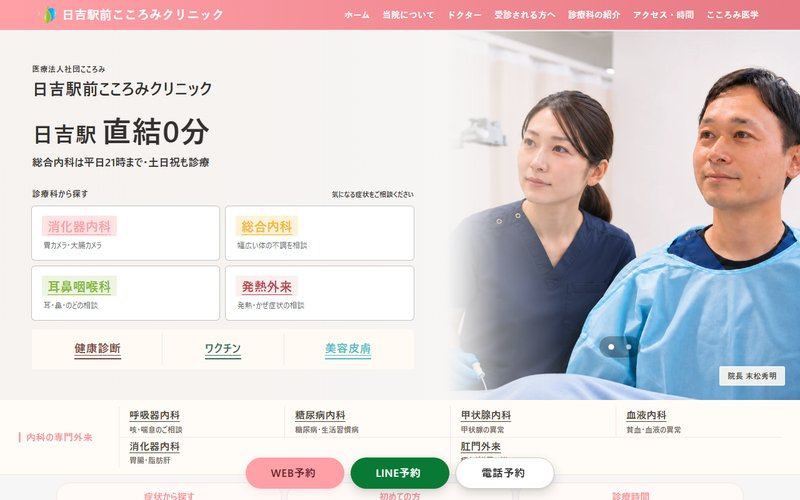
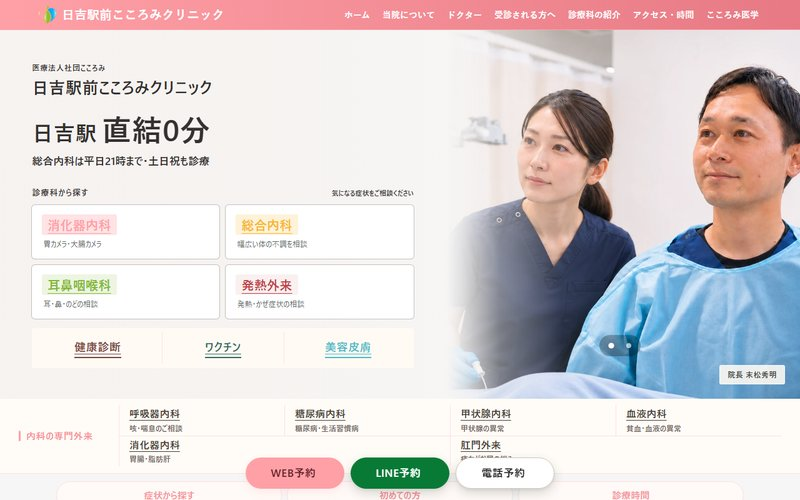
fix: トップのグロナビの下の白い線（2px のすき間）を消す（v0.21.0）
- パソコン幅でヘッダー 48px に対し本文が 50px 下から始まり、2px にページの地の白が見えていた
- 最初の画面を 2px 上に詰めた（全パターン共通）。説明ページとトップの縮小画像5枚を更新。本番サイトは変更なし

diff --git a/fv-patterns/checkups/index.html b/fv-patterns/checkups/index.html
@@ -5,8 +5,8 @@
 <meta name="robots" content="noindex,nofollow">
 <script>(function(){var h=document.documentElement,q=(location.search.match(/[?&]p=([1-5])\b/)||[])[1],s=null;try{s=localStorage.getItem("jFvPat")}catch(e){}var m=q||s||"1";if(!/^[1-5]$/.test(m))m="1";if(q){try{localStorage.setItem("jFvPat",m)}catch(e){}}h.classList.add("fvp","fvr","fv"+m,/^[123]$/.test(m)?"fvL":"fvD")})();</script>
 
-<link rel="stylesheet" href="../assets/sample.css?v=0.20.0">
-<link rel="stylesheet" href="../assets/fvp.css?v=0.20.0">
+<link rel="stylesheet" href="../assets/sample.css?v=0.21.0">
+<link rel="stylesheet" href="../assets/fvp.css?v=0.21.0">
 
 
 
@@ -1674,7 +1674,7 @@ margin-block-end: 24px;
 var e="script#wp-emoji-settings",t=document.querySelector(e);if(!(t instanceof HTMLScriptElement))throw new Error("Element missing: "+e);const r=JSON.parse(t.text),s=(window._wpemojiSettings=r,"wpEmojiSettingsSupports"),o=["flag","emoji"];function i(e){try{var t={supportTests:e,timestamp:(new Date).valueOf()};sessionStorage.setItem(s,JSON.stringify(t))}catch(e){}}function c(e,t,n){e.clearRect(0,0,e.canvas.width,e.canvas.height),e.fillText(t,0,0);t=new Uint32Array(e.getImageData(0,0,e.canvas.width,e.canvas.height).data);e.clearRect(0,0,e.canvas.width,e.canvas.height),e.fillText(n,0,0);const r=new Uint32Array(e.getImageData(0,0,e.canvas.width,e.canvas.height).data);return t.every((e,t)=>e===r[t])}function p(e,t){e.clearRect(0,0,e.canvas.width,e.canvas.height),e.fillText(t,0,0);var n=e.getImageData(16,16,1,1);for(let e=0;e<n.data.length;e++)if(0!==n.data[e])return!1;return!0}function u(e,t,n,r){switch(t){case"flag":return n(e,"\ud83c\udff3\ufe0f\u200d\u26a7\ufe0f","\ud83c\udff3\ufe0f\u200b\u26a7\ufe0f")?!1:!n(e,"\ud83c\udde8\ud83c\uddf6","\ud83c\udde8\u200b\ud83c\uddf6")&&!n(e,"\ud83c\udff4\udb40\udc67\udb40\udc62\udb40\udc65\udb40\udc6e\udb40\udc67\udb40\udc7f","\ud83c\udff4\u200b\udb40\udc67\u200b\udb40\udc62\u200b\udb40\udc65\u200b\udb40\udc6e\u200b\udb40\udc67\u200b\udb40\udc7f");case"emoji":return!r(e,"\ud83e\u1fac8")}return!1}function f(e,t,n,r){let a;const s=(a="undefined"!=typeof WorkerGlobalScope&&self instanceof WorkerGlobalScope?new OffscreenCanvas(300,150):document.createElement("canvas")).getContext("2d",{willReadFrequently:!0}),o=(s.textBaseline="top",s.font="600 32px Arial",{});return e.forEach(e=>{o[e]=t(s,e,n,r)}),o}function a(e){var t=document.createElement("script");t.src=e,t.defer=!0,document.head.appendChild(t)}r.supports={everything:!0,everythingExceptFlag:!0},new Promise(t=>{let n=function(){try{var e=JSON.parse(sessionStorage.getItem(s));if("object"==typeof e&&"number"==typeof e.timestamp&&(new Date).valueOf()<e.timestamp+604800&&"object"==typeof e.supportTests)return e.supportTests}catch(e){}return null}();if(!n){if("undefined"!=typeof Worker&&"undefined"!=typeof OffscreenCanvas&&"undefined"!=typeof URL&&URL.createObjectURL&&"undefined"!=typeof Blob)try{var e="postMessage("+f.toString()+"("+[JSON.stringify(o),u.toString(),c.toString(),p.toString()].join(",")+"));",r=new Blob([e],{type:"text/javascript"});const a=new Worker(URL.createObjectURL(r),{name:"wpTestEmojiSupports"});return void(a.onmessage=e=>{i(n=e.data),a.terminate(),t(n)})}catch(e){}i(n=f(o,u,c,p))}t(n)}).then(e=>{for(const n in e)r.supports[n]=e[n],r.supports.everything=r.supports.everything&&r.supports[n],"flag"!==n&&(r.supports.everythingExceptFlag=r.supports.everythingExceptFlag&&r.supports[n]);var t;r.supports.everythingExceptFlag=r.supports.everythingExceptFlag&&!r.supports.flag,r.supports.everything||((t=r.source||{}).concatemoji?a(t.concatemoji):t.wpemoji&&t.twemoji&&(a(t.twemoji),a(t.wpemoji)))});
 //# sourceURL=https://hiyoshi-cocoromi-cl.jp/wp-includes/js/wp-emoji-loader.min.js
 </script>
-  <script src="../assets/fvp.js?v=0.20.0" data-page="checkups"></script>
+  <script src="../assets/fvp.js?v=0.21.0" data-page="checkups"></script>
 </body>
 </html>
 

diff --git a/fv-patterns/general/index.html b/fv-patterns/general/index.html
@@ -5,8 +5,8 @@
 <meta name="robots" content="noindex,nofollow">
 <script>(function(){var h=document.documentElement,q=(location.search.match(/[?&]p=([1-5])\b/)||[])[1],s=null;try{s=localStorage.getItem("jFvPat")}catch(e){}var m=q||s||"1";if(!/^[1-5]$/.test(m))m="1";if(q){try{localStorage.setItem("jFvPat",m)}catch(e){}}h.classList.add("fvp","fvr","fv"+m,/^[123]$/.test(m)?"fvL":"fvD")})();</script>
 
-<link rel="stylesheet" href="../assets/sample.css?v=0.20.0">
-<link rel="stylesheet" href="../assets/fvp.css?v=0.20.0">
+<link rel="stylesheet" href="../assets/sample.css?v=0.21.0">
+<link rel="stylesheet" href="../assets/fvp.css?v=0.21.0">
 
 
 
@@ -1950,7 +1950,7 @@ margin-block-end: 24px;
 var e="script#wp-emoji-settings",t=document.querySelector(e);if(!(t instanceof HTMLScriptElement))throw new Error("Element missing: "+e);const r=JSON.parse(t.text),s=(window._wpemojiSettings=r,"wpEmojiSettingsSupports"),o=["flag","emoji"];function i(e){try{var t={supportTests:e,timestamp:(new Date).valueOf()};sessionStorage.setItem(s,JSON.stringify(t))}catch(e){}}function c(e,t,n){e.clearRect(0,0,e.canvas.width,e.canvas.height),e.fillText(t,0,0);t=new Uint32Array(e.getImageData(0,0,e.canvas.width,e.canvas.height).data);e.clearRect(0,0,e.canvas.width,e.canvas.height),e.fillText(n,0,0);const r=new Uint32Array(e.getImageData(0,0,e.canvas.width,e.canvas.height).data);return t.every((e,t)=>e===r[t])}function p(e,t){e.clearRect(0,0,e.canvas.width,e.canvas.height),e.fillText(t,0,0);var n=e.getImageData(16,16,1,1);for(let e=0;e<n.data.length;e++)if(0!==n.data[e])return!1;return!0}function u(e,t,n,r){switch(t){case"flag":return n(e,"\ud83c\udff3\ufe0f\u200d\u26a7\ufe0f","\ud83c\udff3\ufe0f\u200b\u26a7\ufe0f")?!1:!n(e,"\ud83c\udde8\ud83c\uddf6","\ud83c\udde8\u200b\ud83c\uddf6")&&!n(e,"\ud83c\udff4\udb40\udc67\udb40\udc62\udb40\udc65\udb40\udc6e\udb40\udc67\udb40\udc7f","\ud83c\udff4\u200b\udb40\udc67\u200b\udb40\udc62\u200b\udb40\udc65\u200b\udb40\udc6e\u200b\udb40\udc67\u200b\udb40\udc7f");case"emoji":return!r(e,"\ud83e\u1fac8")}return!1}function f(e,t,n,r){let a;const s=(a="undefined"!=typeof WorkerGlobalScope&&self instanceof WorkerGlobalScope?new OffscreenCanvas(300,150):document.createElement("canvas")).getContext("2d",{willReadFrequently:!0}),o=(s.textBaseline="top",s.font="600 32px Arial",{});return e.forEach(e=>{o[e]=t(s,e,n,r)}),o}function a(e){var t=document.createElement("script");t.src=e,t.defer=!0,document.head.appendChild(t)}r.supports={everything:!0,everythingExceptFlag:!0},new Promise(t=>{let n=function(){try{var e=JSON.parse(sessionStorage.getItem(s));if("object"==typeof e&&"number"==typeof e.timestamp&&(new Date).valueOf()<e.timestamp+604800&&"object"==typeof e.supportTests)return e.supportTests}catch(e){}return null}();if(!n){if("undefined"!=typeof Worker&&"undefined"!=typeof OffscreenCanvas&&"undefined"!=typeof URL&&URL.createObjectURL&&"undefined"!=typeof Blob)try{var e="postMessage("+f.toString()+"("+[JSON.stringify(o),u.toString(),c.toString(),p.toString()].join(",")+"));",r=new Blob([e],{type:"text/javascript"});const a=new Worker(URL.createObjectURL(r),{name:"wpTestEmojiSupports"});return void(a.onmessage=e=>{i(n=e.data),a.terminate(),t(n)})}catch(e){}i(n=f(o,u,c,p))}t(n)}).then(e=>{for(const n in e)r.supports[n]=e[n],r.supports.everything=r.supports.everything&&r.supports[n],"flag"!==n&&(r.supports.everythingExceptFlag=r.supports.everythingExceptFlag&&r.supports[n]);var t;r.supports.everythingExceptFlag=r.supports.everythingExceptFlag&&!r.supports.flag,r.supports.everything||((t=r.source||{}).concatemoji?a(t.concatemoji):t.wpemoji&&t.twemoji&&(a(t.twemoji),a(t.wpemoji)))});
 //# sourceURL=https://hiyoshi-cocoromi-cl.jp/wp-includes/js/wp-emoji-loader.min.js
 </script>
-  <script src="../assets/fvp.js?v=0.20.0" data-page="general"></script>
+  <script src="../assets/fvp.js?v=0.21.0" data-page="general"></script>
 </body>
 </html>
 

diff --git a/fv-patterns/gastro/index.html b/fv-patterns/gastro/index.html
@@ -5,8 +5,8 @@
 <meta name="robots" content="noindex,nofollow">
 <script>(function(){var h=document.documentElement,q=(location.search.match(/[?&]p=([1-5])\b/)||[])[1],s=null;try{s=localStorage.getItem("jFvPat")}catch(e){}var m=q||s||"1";if(!/^[1-5]$/.test(m))m="1";if(q){try{localStorage.setItem("jFvPat",m)}catch(e){}}h.classList.add("fvp","fvr","fv"+m,/^[123]$/.test(m)?"fvL":"fvD")})();</script>
 
-<link rel="stylesheet" href="../assets/sample.css?v=0.20.0">
-<link rel="stylesheet" href="../assets/fvp.css?v=0.20.0">
+<link rel="stylesheet" href="../assets/sample.css?v=0.21.0">
+<link rel="stylesheet" href="../assets/fvp.css?v=0.21.0">
 
 
 
@@ -2147,7 +2147,7 @@ margin-block-end: 24px;
 var e="script#wp-emoji-settings",t=document.querySelector(e);if(!(t instanceof HTMLScriptElement))throw new Error("Element missing: "+e);const r=JSON.parse(t.text),s=(window._wpemojiSettings=r,"wpEmojiSettingsSupports"),o=["flag","emoji"];function i(e){try{var t={supportTests:e,timestamp:(new Date).valueOf()};sessionStorage.setItem(s,JSON.stringify(t))}catch(e){}}function c(e,t,n){e.clearRect(0,0,e.canvas.width,e.canvas.height),e.fillText(t,0,0);t=new Uint32Array(e.getImageData(0,0,e.canvas.width,e.canvas.height).data);e.clearRect(0,0,e.canvas.width,e.canvas.height),e.fillText(n,0,0);const r=new Uint32Array(e.getImageData(0,0,e.canvas.width,e.canvas.height).data);return t.every((e,t)=>e===r[t])}function p(e,t){e.clearRect(0,0,e.canvas.width,e.canvas.height),e.fillText(t,0,0);var n=e.getImageData(16,16,1,1);for(let e=0;e<n.data.length;e++)if(0!==n.data[e])return!1;return!0}function u(e,t,n,r){switch(t){case"flag":return n(e,"\ud83c\udff3\ufe0f\u200d\u26a7\ufe0f","\ud83c\udff3\ufe0f\u200b\u26a7\ufe0f")?!1:!n(e,"\ud83c\udde8\ud83c\uddf6","\ud83c\udde8\u200b\ud83c\uddf6")&&!n(e,"\ud83c\udff4\udb40\udc67\udb40\udc62\udb40\udc65\udb40\udc6e\udb40\udc67\udb40\udc7f","\ud83c\udff4\u200b\udb40\udc67\u200b\udb40\udc62\u200b\udb40\udc65\u200b\udb40\udc6e\u200b\udb40\udc67\u200b\udb40\udc7f");case"emoji":return!r(e,"\ud83e\u1fac8")}return!1}function f(e,t,n,r){let a;const s=(a="undefined"!=typeof WorkerGlobalScope&&self instanceof WorkerGlobalScope?new OffscreenCanvas(300,150):document.createElement("canvas")).getContext("2d",{willReadFrequently:!0}),o=(s.textBaseline="top",s.font="600 32px Arial",{});return e.forEach(e=>{o[e]=t(s,e,n,r)}),o}function a(e){var t=document.createElement("script");t.src=e,t.defer=!0,document.head.appendChild(t)}r.supports={everything:!0,everythingExceptFlag:!0},new Promise(t=>{let n=function(){try{var e=JSON.parse(sessionStorage.getItem(s));if("object"==typeof e&&"number"==typeof e.timestamp&&(new Date).valueOf()<e.timestamp+604800&&"object"==typeof e.supportTests)return e.supportTests}catch(e){}return null}();if(!n){if("undefined"!=typeof Worker&&"undefined"!=typeof OffscreenCanvas&&"undefined"!=typeof URL&&URL.createObjectURL&&"undefined"!=typeof Blob)try{var e="postMessage("+f.toString()+"("+[JSON.stringify(o),u.toString(),c.toString(),p.toString()].join(",")+"));",r=new Blob([e],{type:"text/javascript"});const a=new Worker(URL.createObjectURL(r),{name:"wpTestEmojiSupports"});return void(a.onmessage=e=>{i(n=e.data),a.terminate(),t(n)})}catch(e){}i(n=f(o,u,c,p))}t(n)}).then(e=>{for(const n in e)r.supports[n]=e[n],r.supports.everything=r.supports.everything&&r.supports[n],"flag"!==n&&(r.supports.everythingExceptFlag=r.supports.everythingExceptFlag&&r.supports[n]);var t;r.supports.everythingExceptFlag=r.supports.everythingExceptFlag&&!r.supports.flag,r.supports.everything||((t=r.source||{}).concatemoji?a(t.concatemoji):t.wpemoji&&t.twemoji&&(a(t.twemoji),a(t.wpemoji)))});
 //# sourceURL=https://hiyoshi-cocoromi-cl.jp/wp-includes/js/wp-emoji-loader.min.js
 </script>
-  <script src="../assets/fvp.js?v=0.20.0" data-page="gastro"></script>
+  <script src="../assets/fvp.js?v=0.21.0" data-page="gastro"></script>
 </body>
 </html>
 

diff --git a/fv-patterns/mental/index.html b/fv-patterns/mental/index.html
@@ -5,8 +5,8 @@
 <meta name="robots" content="noindex,nofollow">
 <script>(function(){var h=document.documentElement,q=(location.search.match(/[?&]p=([1-5])\b/)||[])[1],s=null;try{s=localStorage.getItem("jFvPat")}catch(e){}var m=q||s||"1";if(!/^[1-5]$/.test(m))m="1";if(q){try{localStorage.setItem("jFvPat",m)}catch(e){}}h.classList.add("fvp","fvr","fv"+m,/^[123]$/.test(m)?"fvL":"fvD")})();</script>
 
-<link rel="stylesheet" href="../assets/sample.css?v=0.20.0">
-<link rel="stylesheet" href="../assets/fvp.css?v=0.20.0">
+<link rel="stylesheet" href="../assets/sample.css?v=0.21.0">
+<link rel="stylesheet" href="../assets/fvp.css?v=0.21.0">
 
 
 
@@ -1375,7 +1375,7 @@ margin-block-end: 24px;
 var e="script#wp-emoji-settings",t=document.querySelector(e);if(!(t instanceof HTMLScriptElement))throw new Error("Element missing: "+e);const r=JSON.parse(t.text),s=(window._wpemojiSettings=r,"wpEmojiSettingsSupports"),o=["flag","emoji"];function i(e){try{var t={supportTests:e,timestamp:(new Date).valueOf()};sessionStorage.setItem(s,JSON.stringify(t))}catch(e){}}function c(e,t,n){e.clearRect(0,0,e.canvas.width,e.canvas.height),e.fillText(t,0,0);t=new Uint32Array(e.getImageData(0,0,e.canvas.width,e.canvas.height).data);e.clearRect(0,0,e.canvas.width,e.canvas.height),e.fillText(n,0,0);const r=new Uint32Array(e.getImageData(0,0,e.canvas.width,e.canvas.height).data);return t.every((e,t)=>e===r[t])}function p(e,t){e.clearRect(0,0,e.canvas.width,e.canvas.height),e.fillText(t,0,0);var n=e.getImageData(16,16,1,1);for(let e=0;e<n.data.length;e++)if(0!==n.data[e])return!1;return!0}function u(e,t,n,r){switch(t){case"flag":return n(e,"\ud83c\udff3\ufe0f\u200d\u26a7\ufe0f","\ud83c\udff3\ufe0f\u200b\u26a7\ufe0f")?!1:!n(e,"\ud83c\udde8\ud83c\uddf6","\ud83c\udde8\u200b\ud83c\uddf6")&&!n(e,"\ud83c\udff4\udb40\udc67\udb40\udc62\udb40\udc65\udb40\udc6e\udb40\udc67\udb40\udc7f","\ud83c\udff4\u200b\udb40\udc67\u200b\udb40\udc62\u200b\udb40\udc65\u200b\udb40\udc6e\u200b\udb40\udc67\u200b\udb40\udc7f");case"emoji":return!r(e,"\ud83e\u1fac8")}return!1}function f(e,t,n,r){let a;const s=(a="undefined"!=typeof WorkerGlobalScope&&self instanceof WorkerGlobalScope?new OffscreenCanvas(300,150):document.createElement("canvas")).getContext("2d",{willReadFrequently:!0}),o=(s.textBaseline="top",s.font="600 32px Arial",{});return e.forEach(e=>{o[e]=t(s,e,n,r)}),o}function a(e){var t=document.createElement("script");t.src=e,t.defer=!0,document.head.appendChild(t)}r.supports={everything:!0,everythingExceptFlag:!0},new Promise(t=>{let n=function(){try{var e=JSON.parse(sessionStorage.getItem(s));if("object"==typeof e&&"number"==typeof e.timestamp&&(new Date).valueOf()<e.timestamp+604800&&"object"==typeof e.supportTests)return e.supportTests}catch(e){}return null}();if(!n){if("undefined"!=typeof Worker&&"undefined"!=typeof OffscreenCanvas&&"undefined"!=typeof URL&&URL.createObjectURL&&"undefined"!=typeof Blob)try{var e="postMessage("+f.toString()+"("+[JSON.stringify(o),u.toString(),c.toString(),p.toString()].join(",")+"));",r=new Blob([e],{type:"text/javascript"});const a=new Worker(URL.createObjectURL(r),{name:"wpTestEmojiSupports"});return void(a.onmessage=e=>{i(n=e.data),a.terminate(),t(n)})}catch(e){}i(n=f(o,u,c,p))}t(n)}).then(e=>{for(const n in e)r.supports[n]=e[n],r.supports.everything=r.supports.everything&&r.supports[n],"flag"!==n&&(r.supports.everythingExceptFlag=r.supports.everythingExceptFlag&&r.supports[n]);var t;r.supports.everythingExceptFlag=r.supports.everythingExceptFlag&&!r.supports.flag,r.supports.everything||((t=r.source||{}).concatemoji?a(t.concatemoji):t.wpemoji&&t.twemoji&&(a(t.twemoji),a(t.wpemoji)))});
 //# sourceURL=https://hiyoshi-cocoromi-cl.jp/wp-includes/js/wp-emoji-loader.min.js
 </script>
-  <script src="../assets/fvp.js?v=0.20.0" data-page="mental"></script>
+  <script src="../assets/fvp.js?v=0.21.0" data-page="mental"></script>
 </body>
 </html>
 

diff --git a/fv-patterns/fever/index.html b/fv-patterns/fever/index.html
@@ -4,8 +4,8 @@
 <meta name="robots" content="noindex,nofollow">
 <script>(function(){var h=document.documentElement,q=(location.search.match(/[?&]p=([1-5])\b/)||[])[1],s=null;try{s=localStorage.getItem("jFvPat")}catch(e){}var m=q||s||"1";if(!/^[1-5]$/.test(m))m="1";if(q){try{localStorage.setItem("jFvPat",m)}catch(e){}}h.classList.add("fvp","fvr","fv"+m,/^[123]$/.test(m)?"fvL":"fvD")})();</script>
 
-<link rel="stylesheet" href="../assets/sample.css?v=0.20.0">
-<link rel="stylesheet" href="../assets/fvp.css?v=0.20.0">
+<link rel="stylesheet" href="../assets/sample.css?v=0.21.0">
+<link rel="stylesheet" href="../assets/fvp.css?v=0.21.0">
 
 
 
@@ -1501,7 +1501,7 @@ margin-block-end: 24px;
 var e="script#wp-emoji-settings",t=document.querySelector(e);if(!(t instanceof HTMLScriptElement))throw new Error("Element missing: "+e);const r=JSON.parse(t.text),s=(window._wpemojiSettings=r,"wpEmojiSettingsSupports"),o=["flag","emoji"];function i(e){try{var t={supportTests:e,timestamp:(new Date).valueOf()};sessionStorage.setItem(s,JSON.stringify(t))}catch(e){}}function c(e,t,n){e.clearRect(0,0,e.canvas.width,e.canvas.height),e.fillText(t,0,0);t=new Uint32Array(e.getImageData(0,0,e.canvas.width,e.canvas.height).data);e.clearRect(0,0,e.canvas.width,e.canvas.height),e.fillText(n,0,0);const r=new Uint32Array(e.getImageData(0,0,e.canvas.width,e.canvas.height).data);return t.every((e,t)=>e===r[t])}function p(e,t){e.clearRect(0,0,e.canvas.width,e.canvas.height),e.fillText(t,0,0);var n=e.getImageData(16,16,1,1);for(let e=0;e<n.data.length;e++)if(0!==n.data[e])return!1;return!0}function u(e,t,n,r){switch(t){case"flag":return n(e,"\ud83c\udff3\ufe0f\u200d\u26a7\ufe0f","\ud83c\udff3\ufe0f\u200b\u26a7\ufe0f")?!1:!n(e,"\ud83c\udde8\ud83c\uddf6","\ud83c\udde8\u200b\ud83c\uddf6")&&!n(e,"\ud83c\udff4\udb40\udc67\udb40\udc62\udb40\udc65\udb40\udc6e\udb40\udc67\udb40\udc7f","\ud83c\udff4\u200b\udb40\udc67\u200b\udb40\udc62\u200b\udb40\udc65\u200b\udb40\udc6e\u200b\udb40\udc67\u200b\udb40\udc7f");case"emoji":return!r(e,"\ud83e\u1fac8")}return!1}function f(e,t,n,r){let a;const s=(a="undefined"!=typeof WorkerGlobalScope&&self instanceof WorkerGlobalScope?new OffscreenCanvas(300,150):document.createElement("canvas")).getContext("2d",{willReadFrequently:!0}),o=(s.textBaseline="top",s.font="600 32px Arial",{});return e.forEach(e=>{o[e]=t(s,e,n,r)}),o}function a(e){var t=document.createElement("script");t.src=e,t.defer=!0,document.head.appendChild(t)}r.supports={everything:!0,everythingExceptFlag:!0},new Promise(t=>{let n=function(){try{var e=JSON.parse(sessionStorage.getItem(s));if("object"==typeof e&&"number"==typeof e.timestamp&&(new Date).valueOf()<e.timestamp+604800&&"object"==typeof e.supportTests)return e.supportTests}catch(e){}return null}();if(!n){if("undefined"!=typeof Worker&&"undefined"!=typeof OffscreenCanvas&&"undefined"!=typeof URL&&URL.createObjectURL&&"undefined"!=typeof Blob)try{var e="postMessage("+f.toString()+"("+[JSON.stringify(o),u.toString(),c.toString(),p.toString()].join(",")+"));",r=new Blob([e],{type:"text/javascript"});const a=new Worker(URL.createObjectURL(r),{name:"wpTestEmojiSupports"});return void(a.onmessage=e=>{i(n=e.data),a.terminate(),t(n)})}catch(e){}i(n=f(o,u,c,p))}t(n)}).then(e=>{for(const n in e)r.supports[n]=e[n],r.supports.everything=r.supports.everything&&r.supports[n],"flag"!==n&&(r.supports.everythingExceptFlag=r.supports.everythingExceptFlag&&r.supports[n]);var t;r.supports.everythingExceptFlag=r.supports.everythingExceptFlag&&!r.supports.flag,r.supports.everything||((t=r.source||{}).concatemoji?a(t.concatemoji):t.wpemoji&&t.twemoji&&(a(t.twemoji),a(t.wpemoji)))});
 //# sourceURL=https://hiyoshi-cocoromi-cl.jp/wp-includes/js/wp-emoji-loader.min.js
 </script>
-  <script src="../assets/fvp.js?v=0.20.0" data-page="fever"></script>
+  <script src="../assets/fvp.js?v=0.21.0" data-page="fever"></script>
 </body>
 </html>
 

diff --git a/fv-patterns/derm/index.html b/fv-patterns/derm/index.html
@@ -5,8 +5,8 @@
 <meta name="robots" content="noindex,nofollow">
 <script>(function(){var h=document.documentElement,q=(location.search.match(/[?&]p=([1-5])\b/)||[])[1],s=null;try{s=localStorage.getItem("jFvPat")}catch(e){}var m=q||s||"1";if(!/^[1-5]$/.test(m))m="1";if(q){try{localStorage.setItem("jFvPat",m)}catch(e){}}h.classList.add("fvp","fvr","fv"+m,/^[123]$/.test(m)?"fvL":"fvD")})();</script>
 
-<link rel="stylesheet" href="../assets/sample.css?v=0.20.0">
-<link rel="stylesheet" href="../assets/fvp.css?v=0.20.0">
+<link rel="stylesheet" href="../assets/sample.css?v=0.21.0">
+<link rel="stylesheet" href="../assets/fvp.css?v=0.21.0">
 
 
 
@@ -1524,7 +1524,7 @@ margin-block-end: 24px;
 var e="script#wp-emoji-settings",t=document.querySelector(e);if(!(t instanceof HTMLScriptElement))throw new Error("Element missing: "+e);const r=JSON.parse(t.text),s=(window._wpemojiSettings=r,"wpEmojiSettingsSupports"),o=["flag","emoji"];function i(e){try{var t={supportTests:e,timestamp:(new Date).valueOf()};sessionStorage.setItem(s,JSON.stringify(t))}catch(e){}}function c(e,t,n){e.clearRect(0,0,e.canvas.width,e.canvas.height),e.fillText(t,0,0);t=new Uint32Array(e.getImageData(0,0,e.canvas.width,e.canvas.height).data);e.clearRect(0,0,e.canvas.width,e.canvas.height),e.fillText(n,0,0);const r=new Uint32Array(e.getImageData(0,0,e.canvas.width,e.canvas.height).data);return t.every((e,t)=>e===r[t])}function p(e,t){e.clearRect(0,0,e.canvas.width,e.canvas.height),e.fillText(t,0,0);var n=e.getImageData(16,16,1,1);for(let e=0;e<n.data.length;e++)if(0!==n.data[e])return!1;return!0}function u(e,t,n,r){switch(t){case"flag":return n(e,"\ud83c\udff3\ufe0f\u200d\u26a7\ufe0f","\ud83c\udff3\ufe0f\u200b\u26a7\ufe0f")?!1:!n(e,"\ud83c\udde8\ud83c\uddf6","\ud83c\udde8\u200b\ud83c\uddf6")&&!n(e,"\ud83c\udff4\udb40\udc67\udb40\udc62\udb40\udc65\udb40\udc6e\udb40\udc67\udb40\udc7f","\ud83c\udff4\u200b\udb40\udc67\u200b\udb40\udc62\u200b\udb40\udc65\u200b\udb40\udc6e\u200b\udb40\udc67\u200b\udb40\udc7f");case"emoji":return!r(e,"\ud83e\u1fac8")}return!1}function f(e,t,n,r){let a;const s=(a="undefined"!=typeof WorkerGlobalScope&&self instanceof WorkerGlobalScope?new OffscreenCanvas(300,150):document.createElement("canvas")).getContext("2d",{willReadFrequently:!0}),o=(s.textBaseline="top",s.font="600 32px Arial",{});return e.forEach(e=>{o[e]=t(s,e,n,r)}),o}function a(e){var t=document.createElement("script");t.src=e,t.defer=!0,document.head.appendChild(t)}r.supports={everything:!0,everythingExceptFlag:!0},new Promise(t=>{let n=function(){try{var e=JSON.parse(sessionStorage.getItem(s));if("object"==typeof e&&"number"==typeof e.timestamp&&(new Date).valueOf()<e.timestamp+604800&&"object"==typeof e.supportTests)return e.supportTests}catch(e){}return null}();if(!n){if("undefined"!=typeof Worker&&"undefined"!=typeof OffscreenCanvas&&"undefined"!=typeof URL&&URL.createObjectURL&&"undefined"!=typeof Blob)try{var e="postMessage("+f.toString()+"("+[JSON.stringify(o),u.toString(),c.toString(),p.toString()].join(",")+"));",r=new Blob([e],{type:"text/javascript"});const a=new Worker(URL.createObjectURL(r),{name:"wpTestEmojiSupports"});return void(a.onmessage=e=>{i(n=e.data),a.terminate(),t(n)})}catch(e){}i(n=f(o,u,c,p))}t(n)}).then(e=>{for(const n in e)r.supports[n]=e[n],r.supports.everything=r.supports.everything&&r.supports[n],"flag"!==n&&(r.supports.everythingExceptFlag=r.supports.everythingExceptFlag&&r.supports[n]);var t;r.supports.everythingExceptFlag=r.supports.everythingExceptFlag&&!r.supports.flag,r.supports.everything||((t=r.source||{}).concatemoji?a(t.concatemoji):t.wpemoji&&t.twemoji&&(a(t.twemoji),a(t.wpemoji)))});
 //# sourceURL=https://hiyoshi-cocoromi-cl.jp/wp-includes/js/wp-emoji-loader.min.js
 </script>
-  <script src="../assets/fvp.js?v=0.20.0" data-page="derm"></script>
+  <script src="../assets/fvp.js?v=0.21.0" data-page="derm"></script>
 </body>
 </html>
 

diff --git a/fv-patterns/ent/index.html b/fv-patterns/ent/index.html
@@ -5,8 +5,8 @@
 <meta name="robots" content="noindex,nofollow">
 <script>(function(){var h=document.documentElement,q=(location.search.match(/[?&]p=([1-5])\b/)||[])[1],s=null;try{s=localStorage.getItem("jFvPat")}catch(e){}var m=q||s||"1";if(!/^[1-5]$/.test(m))m="1";if(q){try{localStorage.setItem("jFvPat",m)}catch(e){}}h.classList.add("fvp","fvr","fv"+m,/^[123]$/.test(m)?"fvL":"fvD")})();</script>
 
-<link rel="stylesheet" href="../assets/sample.css?v=0.20.0">
-<link rel="stylesheet" href="../assets/fvp.css?v=0.20.0">
+<link rel="stylesheet" href="../assets/sample.css?v=0.21.0">
+<link rel="stylesheet" href="../assets/fvp.css?v=0.21.0">
 
 
 
@@ -1486,7 +1486,7 @@ margin-block-end: 24px;
 var e="script#wp-emoji-settings",t=document.querySelector(e);if(!(t instanceof HTMLScriptElement))throw new Error("Element missing: "+e);const r=JSON.parse(t.text),s=(window._wpemojiSettings=r,"wpEmojiSettingsSupports"),o=["flag","emoji"];function i(e){try{var t={supportTests:e,timestamp:(new Date).valueOf()};sessionStorage.setItem(s,JSON.stringify(t))}catch(e){}}function c(e,t,n){e.clearRect(0,0,e.canvas.width,e.canvas.height),e.fillText(t,0,0);t=new Uint32Array(e.getImageData(0,0,e.canvas.width,e.canvas.height).data);e.clearRect(0,0,e.canvas.width,e.canvas.height),e.fillText(n,0,0);const r=new Uint32Array(e.getImageData(0,0,e.canvas.width,e.canvas.height).data);return t.every((e,t)=>e===r[t])}function p(e,t){e.clearRect(0,0,e.canvas.width,e.canvas.height),e.fillText(t,0,0);var n=e.getImageData(16,16,1,1);for(let e=0;e<n.data.length;e++)if(0!==n.data[e])return!1;return!0}function u(e,t,n,r){switch(t){case"flag":return n(e,"\ud83c\udff3\ufe0f\u200d\u26a7\ufe0f","\ud83c\udff3\ufe0f\u200b\u26a7\ufe0f")?!1:!n(e,"\ud83c\udde8\ud83c\uddf6","\ud83c\udde8\u200b\ud83c\uddf6")&&!n(e,"\ud83c\udff4\udb40\udc67\udb40\udc62\udb40\udc65\udb40\udc6e\udb40\udc67\udb40\udc7f","\ud83c\udff4\u200b\udb40\udc67\u200b\udb40\udc62\u200b\udb40\udc65\u200b\udb40\udc6e\u200b\udb40\udc67\u200b\udb40\udc7f");case"emoji":return!r(e,"\ud83e\u1fac8")}return!1}function f(e,t,n,r){let a;const s=(a="undefined"!=typeof WorkerGlobalScope&&self instanceof WorkerGlobalScope?new OffscreenCanvas(300,150):document.createElement("canvas")).getContext("2d",{willReadFrequently:!0}),o=(s.textBaseline="top",s.font="600 32px Arial",{});return e.forEach(e=>{o[e]=t(s,e,n,r)}),o}function a(e){var t=document.createElement("script");t.src=e,t.defer=!0,document.head.appendChild(t)}r.supports={everything:!0,everythingExceptFlag:!0},new Promise(t=>{let n=function(){try{var e=JSON.parse(sessionStorage.getItem(s));if("object"==typeof e&&"number"==typeof e.timestamp&&(new Date).valueOf()<e.timestamp+604800&&"object"==typeof e.supportTests)return e.supportTests}catch(e){}return null}();if(!n){if("undefined"!=typeof Worker&&"undefined"!=typeof OffscreenCanvas&&"undefined"!=typeof URL&&URL.createObjectURL&&"undefined"!=typeof Blob)try{var e="postMessage("+f.toString()+"("+[JSON.stringify(o),u.toString(),c.toString(),p.toString()].join(",")+"));",r=new Blob([e],{type:"text/javascript"});const a=new Worker(URL.createObjectURL(r),{name:"wpTestEmojiSupports"});return void(a.onmessage=e=>{i(n=e.data),a.terminate(),t(n)})}catch(e){}i(n=f(o,u,c,p))}t(n)}).then(e=>{for(const n in e)r.supports[n]=e[n],r.supports.everything=r.supports.everything&&r.supports[n],"flag"!==n&&(r.supports.everythingExceptFlag=r.supports.everythingExceptFlag&&r.supports[n]);var t;r.supports.everythingExceptFlag=r.supports.everythingExceptFlag&&!r.supports.flag,r.supports.everything||((t=r.source||{}).concatemoji?a(t.concatemoji):t.wpemoji&&t.twemoji&&(a(t.twemoji),a(t.wpemoji)))});
 //# sourceURL=https://hiyoshi-cocoromi-cl.jp/wp-includes/js/wp-emoji-loader.min.js
 </script>
-  <script src="../assets/fvp.js?v=0.20.0" data-page="ent"></script>
+  <script src="../assets/fvp.js?v=0.21.0" data-page="ent"></script>
 </body>
 </html>
 

diff --git a/fv-patterns/index.html b/fv-patterns/index.html
@@ -4,7 +4,7 @@
 <meta charset="utf-8">
 <meta name="viewport" content="width=device-width, initial-scale=1">
 <meta name="robots" content="noindex,nofollow">
-<meta name="version" content="0.20.0">
+<meta name="version" content="0.21.0">
 <title>日吉 最初の画面の背景5案</title>
 <style>
 :root{--bg:#faf8f6;--card:#fff;--ink:#1f1d1b;--sub:#625b55;--line:#e6e0d9}
@@ -75,6 +75,7 @@ a:focus-visible{outline:3px solid #6a9bff;outline-offset:2px}
 <li><b>グレー（4）もネイビーと同じ作り</b>にしました（v0.20.0。写真の色味をおさえるフィルターはそのまま）</li>
 <li>文字のまわりのにじみ・小さな札の塗り（v0.18.0〜v0.19.0 で読みやすさのために足したもの）は外しました（v0.20.0）。ネイビー・グレーでは、文字の右端（全体の真ん中寄り）が白い地に近づき、白い文字が読みにくくなる所があります（下の「確認したこと」）</li>
 <li>スマホ・タブレット（写真が上・文字が下の縦並び）は今のままです</li>
+<li><b>トップのグロナビの下の白い線を消しました</b>（v0.21.0）。パソコン幅ではヘッダーの高さが 48px なのに本文が 50px 下から始まる作りで、その 2px のすき間にページの地の白が見えていました。最初の画面を 2px 上に詰めています（全パターン共通。スマホ幅はもともとすき間なし）</li>
 </ul>
 </section>
 
@@ -153,8 +154,9 @@ a:focus-visible{outline:3px solid #6a9bff;outline-offset:2px}
 </section>
 
 <section class="box" aria-labelledby="chk-h">
-<h2 id="chk-h">確認したこと（2026-11-26・v0.20.0）</h2>
+<h2 id="chk-h">確認したこと（2026-11-26・v0.20.0／v0.21.0）</h2>
 <ul>
+<li>v0.21.0：トップ × 5パターン × 幅 375・768・1024・1280・1920px で、ヘッダーと最初の画面のすき間 0。ヘッダー直下の2行の画素は、前は白 <code>#F6F6F6</code>、いまは最初の画面の色（グレー・ネイビーで確認）</li>
 <li>①の帯の見た目を写真の画素で測ると、左端 <code>#223744</code> → 全体の34% <code>#435560</code> → 50% <code>#8D989F</code> → 55% <code>#A5AEB3</code> → その先は白い壁とドクター。トップ・各科のネイビー（5）の白い地の部分は、この色と同じ計算になっています</li>
 <li>8ページ × 5パターン × パソコン幅（1280px）・スマホ幅（375px）の80通りで、前回（v0.19.0）と全部の部品の色を照らし合わせ、変わったのは「パソコン幅の最初の画面（グレー4・ネイビー5）」だけ。1〜3・スマホ幅・ヘッダー・最初の画面より下は差 0</li>
 <li>読みやすさ（参考）：全8ページ × 5パターンの最初の画面で、写真と地・ぼかしを重ねて文字の下の色を計算。1〜3 は基準を下回る文字 0。ネイビー（5）はトップ右上の小さな「気になる症状をご相談ください」と美容皮膚科の「メニュー・料金」の2つ、グレー（4）は白地に近づく所の白い文字のほとんどが基準（4.5:1）を下回ります。ご指示により手当て（にじみ等）はしていません</li>

diff --git a/fv-patterns/top/index.html b/fv-patterns/top/index.html
@@ -4,8 +4,8 @@
 <meta name="robots" content="noindex,nofollow">
 <script>(function(){var h=document.documentElement,q=(location.search.match(/[?&]p=([1-5])\b/)||[])[1],s=null;try{s=localStorage.getItem("jFvPat")}catch(e){}var m=q||s||"1";if(!/^[1-5]$/.test(m))m="1";if(q){try{localStorage.setItem("jFvPat",m)}catch(e){}}h.classList.add("fvp","fvr","fv"+m,/^[123]$/.test(m)?"fvL":"fvD")})();</script>
 
-<link rel="stylesheet" href="../assets/sample.css?v=0.20.0">
-<link rel="stylesheet" href="../assets/fvp.css?v=0.20.0">
+<link rel="stylesheet" href="../assets/sample.css?v=0.21.0">
+<link rel="stylesheet" href="../assets/fvp.css?v=0.21.0">
 
 
 
@@ -1630,7 +1630,7 @@ body>main#main-content{padding:50px 0}
         </symbol>
       </defs>
     </svg>
-<script src="../assets/fvp.js?v=0.20.0" data-page="top"></script>
+<script src="../assets/fvp.js?v=0.21.0" data-page="top"></script>
 </body>
 </html>
 
